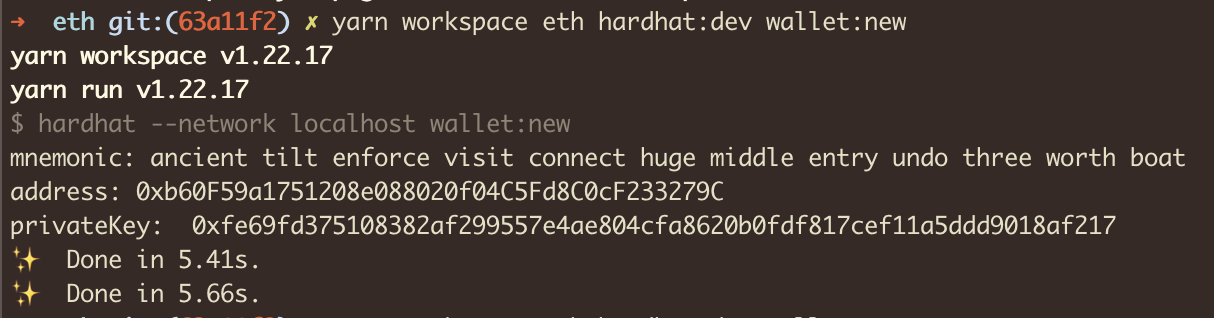
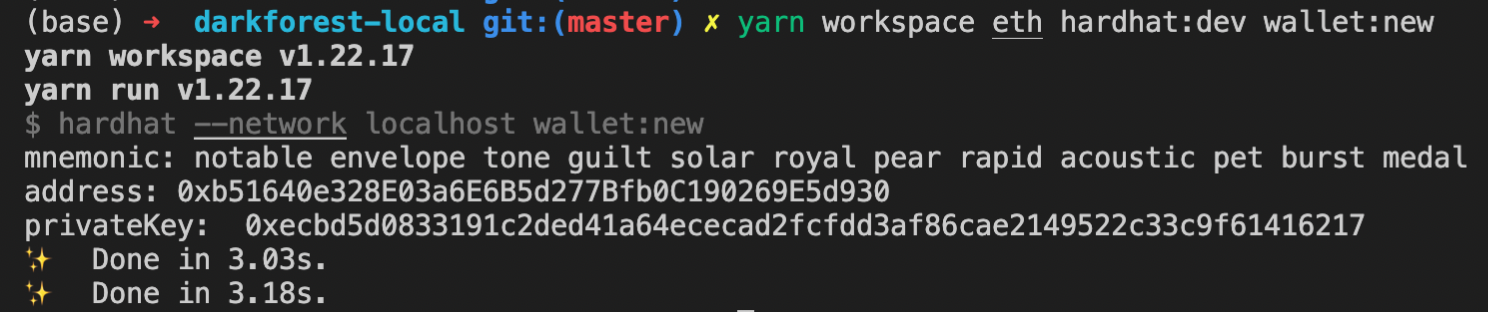
feat: Add details about forking and deploying (#8)
feat: Add createPlanets to local game
feat: Add netlify.toml at root for easier deployments

Changed region(s): [[0.0, 0.0, 1.0, 1.0]]

diff --git a/README.md b/README.md
@@ -2,24 +2,68 @@
 
 The Dark Forest client deploy process is set up for players to easily fork the client and connect to the mainnet game, but that design decision currently makes it difficult to run a playable version of the game locally. This repository provides a setup for running a local game with just a few steps.
 
-This repo uses submodules to pair the [Dark Forest Ethereum backend](https://github.com/darkforest-eth/eth) with the [Dark Forest TypeScript frontend](https://github.com/darkforest-eth/client) so you can launch a local game.
 
-## Install
+## How `darkforest-local` works
 
-- Clone with submodules `git clone --recurse-submodules https://github.com/projectsophon/darkforest-local` or if you've already cloned and want to update the module `git submodule update --init --recursive`
-- Install [Yarn](https://classic.yarnpkg.com/en/docs/install)
-- Run `yarn` at the top level to automatically install all dependencies from subfolders.
+This repo uses [submodules](.gitmodules) to pair the [Dark Forest Ethereum backend](https://github.com/darkforest-eth/eth) with the [Dark Forest TypeScript frontend](https://github.com/darkforest-eth/client) so you can launch a local game.
 
+It also uses Yarn, a package manager (like `npm`) that allows for multiple [workspaces](https://classic.yarnpkg.com/lang/en/docs/workspaces) to exist within a project.
+
+The workspaces allows each [submodule](.gitmodules) to have their own packages and configuration. 
+Yarn places all of the packages for each submodule in the top level `node_modules/` folder.
+
+## Requirements
+* Install `node >= 14` (You can consider using [nvm](https://github.com/nvm-sh/nvm))
+* Install [Yarn](https://classic.yarnpkg.com/en/docs/install)
+
+### Quickstart for running a local game
+1. Fork [darkforest-local](https://github.com/projectsophon/darkforest-local) to your GitHub account
+2. `git clone --recurse-submodules https://github.com/<your_name>/darkforest-local.git`
+3. If you didn't clone with `--recurse-submodules` or already have a cloned version: `git submodule update --init --recursive --remote --merge`
+4. `yarn`
+5. `yarn start`
+
+### If you plan to make changes to `darkforest-local`
+1. Fork [darkforest-local](https://github.com/projectsophon/darkforest-local) to your GitHub account
+2. Fork [darkforest-eth/eth](https://github.com/darkforest-eth/eth) to your GitHub account
+3. Fork [darkforest-eth/client](https://github.com/darkforest-eth/client) to your GitHub account
+4. Fork [darkforest-eth/circuits](https://github.com/darkforest-eth/circuits) to your GitHub account
+5. Fork [darkforest-eth/packages](https://github.com/darkforest-eth/packages) to your GitHub account
+4. Clone your darkforest-local repo: `git clone https://github.com/<your_name>/darkforest-local.git`
+5. Update the `.gitmodules` file to point to your new forks of `eth`, `client`, `circuits`, and `packages` 
+    ex: 
+    * `url = https://github.com/darkforest-eth/eth` => `url = https://github.com/cha0sg0d/eth`
+    * `url = https://github.com/darkforest-eth/client` => `url = https://github.com/cha0sg0d/client`
+    * `url = https://github.com/darkforest-eth/circuits` => `url = https://github.com/cha0sg0d/circuits`
+    * `url = https://github.com/darkforest-eth/packages` => `url = https://github.com/cha0sg0d/packages`
+6. Fetch the code from the submodules
+    * `git submodule update --init --recursive`   
+7. Add new branches for developing:
+    - The `darkforest-local` monorepo detaches the submodules from their current HEADs. If you want to save your changes (for example, if you're testing an new contract in `eth`), you'll need to make a new branch in these submodules.
+    1. `cd eth`
+        1. `git checkout -b <new_name>`
+    2. `cd client`
+        1. `git checkout -b <new_name>`
+    3. `cd circuits`
+        1. `git checkout -b <new_name>`
+    4. `cd packages`
+        1. `git checkout -b <new_name>`
+7. Install packages and dependencies
+    * `yarn`
+8. Start a game
+    * `yarn start`
+
+            
 ## Run a local game
 
-- Open a terminal tab and run `yarn start`, which will 1) start a local node, 2) deploy the contracts, and 3) run the local client in dev mode
-- When finsihed, the process should pop up your browser to the game client at http://localhost:8081/
+- Running `yarn start`, will 1) start a local node, 2) deploy the contracts, and 3) run the local client in dev mode
+- When finished, the process should pop up your browser to the game client at http://localhost:8081/
 
-You won't have a webserver to drip you a few cents to start playing (which Dark Forest usually does) so instead of creating a new burner wallet, you'll want to import one of the private keys the node funded for you. See the node page where it prints wallets like:
+- Here are 3 private keys with 100 ETH each to use in the game:
[3 lines of base64/hex data omitted]
 
-> Account #2: 0x3097403b64fe672467345bf159f4c9c5464bd89e (100 ETH)
->
-> Private Key: 0x67195c963ff445314e667112ab22f4a7404bad7f9746564eb409b9bb8c6aed32
 
 ## Static deployment of Dark Forest (no webserver)
 
@@ -34,7 +78,7 @@ might want to do this could be one of:
 Deploying to production is quite similar to deploying a local version of the game, but I'm going to
 walk through the steps explicitly here.
 
-### Step 1: deploy contracts
+### Step 1: Deploy contracts
 
 Unlike in development mode, in production mode you will need to create a `.env` file in both the
 `client/` and `eth/` submodules. You can find the set of environment variables you will need to
@@ -42,6 +86,15 @@ populate those `.env` files with in their adjacent `.env.example` files.
 
 > **Danger!** The `.env` files ARE in the respective `.gitignore`s of the aforementioned submodules,
 > however you should also manually make sure that they don't end up checked into your repository.
+
+To randomly generate a new deployer private key and mnemonic for `eth/.env`, run 
+```bash
+yarn workspace eth hardhat wallet:new
+```
+You should see something like this:
+
+![yarn workspace eth hardhat wallet:new](img/new_key.png)
+
 
 To deploy the contracts, you will need to run the following command:
 
@@ -53,28 +106,55 @@ You should see something like this:
 
 ![yarn workspace eth hardhat:prod deploy](img/hardhat_prod_deploy.png)
 
-> Dark Forest uses [yarn workspaces](https://yarnpkg.com/features/workspaces)
-
 To find out more information about the `contracts` submodule, you can look here:
 [https://github.com/darkforest-eth/eth](https://github.com/darkforest-eth/eth).
 
-### Step 2: deploy client website
+### Step 2: Deploy client website
 
 To deploy the website interface, you may either self-host, or use the same infra that we use -
 [Netlify](https://www.netlify.com/). This is a simple option, and free for up to some amount of
 gigabytes of bandwidth per month, which has often been enough for us.
 
-To deploy to Netlify, you can run the following command:
+To use Netlify:
 
-```bash
-yarn workspace client deploy:prod
-```
+- Make a new [Netlify account](https://app.netlify.com/signup) using your Github profile.
+- [Import](https://app.netlify.com/start) your forked **darkforest-local** repo as a new Netlify site.
 
-You should see something like this:
+    - During Step 3 of the import (Site settings, and deploy!):
+        - Build command: `yarn workspace client build`
+        - Publish directory: `client/dist`
 
-![yarn workspace eth hardhat:prod deploy](img/netlify_prod_deploy.png)
+    Your initial settings should look like this:
 
-### Step 3: allow player addresses
+    ![netlify_settings](img/netlify_import.png)  
+
+    *Importing from Github will automatically trigger an initial build by Netlify, which will take ~5 min.*
+
+- Install the Netlify CLI
+    - `npm install netlify-cli -g`
+- Login to your account
+    - `netlify login`
+- Connect to your app
+    - `netlify link`
+    
+    ![Netlify link](img/link.png)
+    
+- Choose *Enter a site ID*
+    
+    ![Site ID](img/site_id.png)
+    
+- Input the id that you find by clicking on your new site on Netlify. In this example, the id is `jolly-hermann-3947ca`
+- Now that your site is linked, you can deploy to Netlify from the CLI.
+    - `yarn deploy:client:prod`
+    - If successful, you will see something like this.
+        
+        ![deploy_success](img/netlify_deploy.png)
+    - By default, all future changes to the branch you specified in the settings will result in an automatic deploy (in this case `master`). 
+    - You can still choose to deploy manually (via `yarn deploy:client:prod`).
+    - Additionally, if you want to stop auto-publishing via git updates, see this image:
+        ![stop_auto_publishing](img/stop_auto_publishing.png)
+
+### Step 3: Allow player addresses
 
 The default implementation of Dark Forest ships with a [whitelist
 contract](https://github.com/darkforest-eth/eth/blob/master/contracts/Whitelist.sol). When we
@@ -85,15 +165,12 @@ user (which lets a given burner address into the game and drips it a fraction of
 This means that if you want to let players into your game, you must first collect their
 addresses.
 
-> If you want to generate a burner wallet on the CLI for testing (eg. to make sure that the deployment
-> worked) you can do so via the following command, which prints the details of a new randomly
-> generated public-private keypair:
+If you want to generate a burner wallet on the CLI for testing, follow the same steps from [Step 1](#step-1-deploy-contracts):
 
-> ```bash
-> yarn workspace eth hardhat:dev wallet:new
-> ```
->
-> ![yarn workspace eth hardhat:dev wallet:new](img/new_key.png)
+```bash
+yarn workspace eth hardhat:dev wallet:new
+```
+
 
 Once you collect the addresses of the people you want to let into your world, you can register them
 individually via the following command
@@ -111,6 +188,10 @@ If everything worked properly, you should be able to log in:
 Then, once you've found a home planet, you should be able to enter the game!
 
 ![enter game](img/enter_game.png)
+
+### Step 4: Play your game
+
+- Now go the URL given by Netlify → something like [https://jolly-hermann-3947ca.netlify.app/](https://jolly-hermann-3947ca.netlify.app/) and test out your game! Login with one of the private keys for the addresses that were whitelisted. Make some moves and test that everything works as expected.
 
 ## Update to latest Dark Forest code
 
